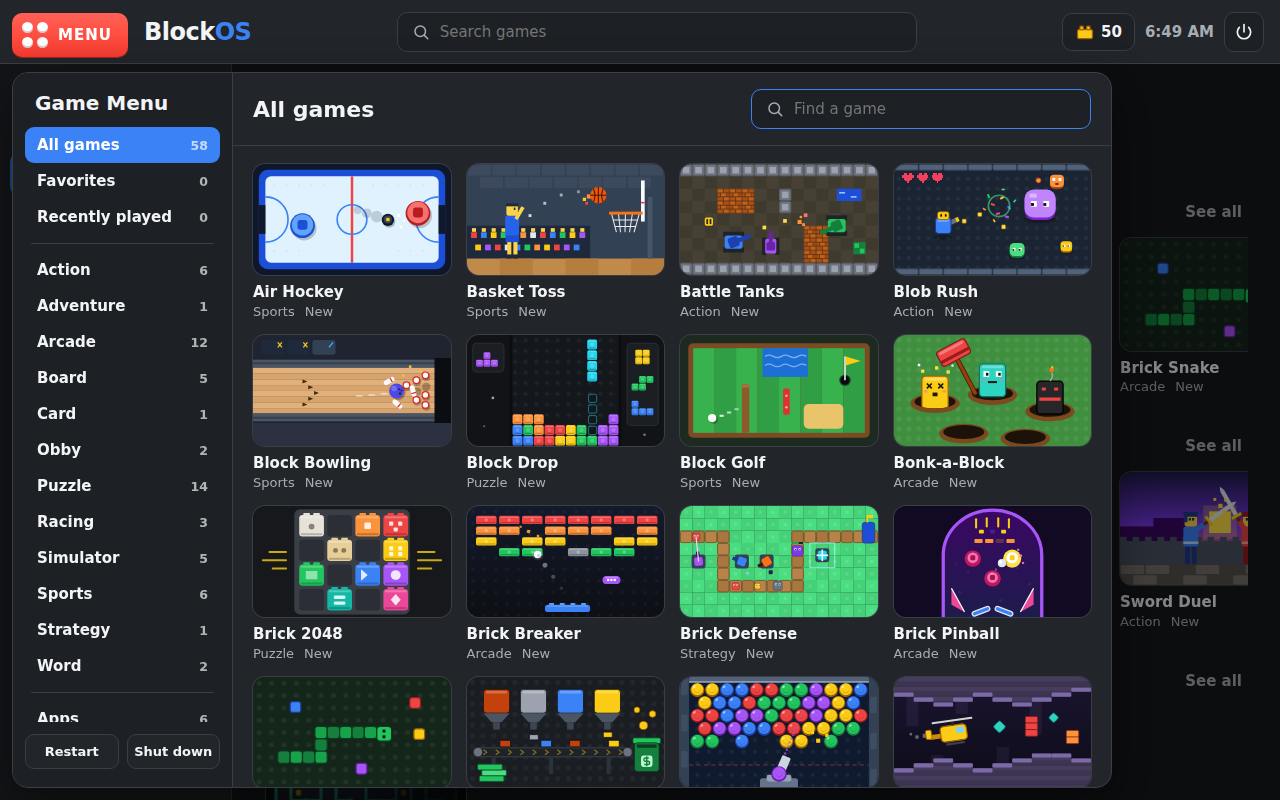
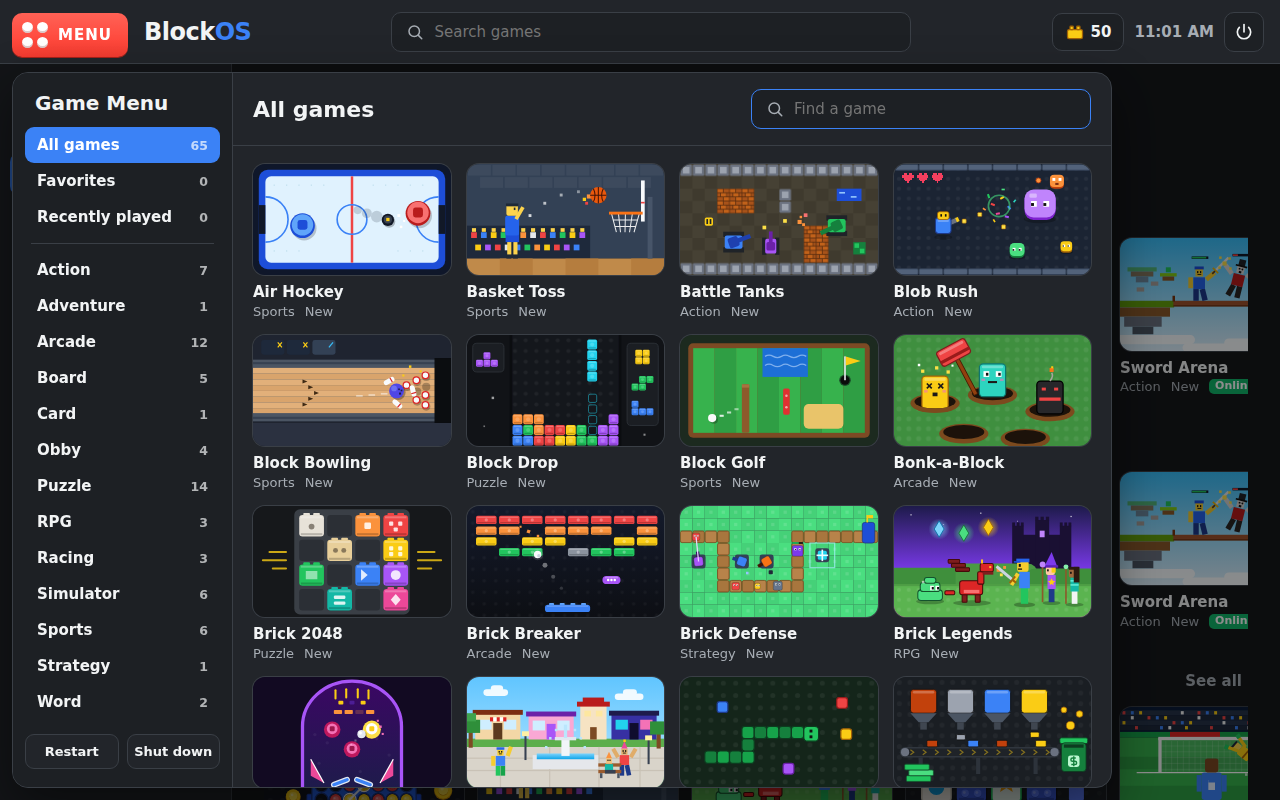
Add Mega Obby and Tower Rush; all 65 games done
Mega Obby is a 45-stage 3D obby on a sky spiral with saving, a secret
path and online racing. Tower Rush stacks 8 of 14 random sections into a
tower with a 6-minute round; online everyone climbs the same tower.

All 65 games load and respond to input without errors in a scripted check.
The README lists every game by genre, marks the 3D and online ones, and
shows two of the new 3D games.

Claude-Session: https://claude.ai/code/session_019XLtpXnqnpapxGsB4TwsEd

diff --git a/blockos/shell/games/tower-rush/index.html b/blockos/shell/games/tower-rush/index.html
@@ -43,16 +43,26 @@ const SPAWN = [0, 0, 40];
 
 const world = new World({ sky: "#93d2ff", fogNear: 220, fogFar: 650 });
 window.world = world;
-world.baseplate(320, "#4b9b3f");
+world.baseplate(200, "#4b9b3f");
+// cheap flat grass all around the baseplate (no overlap, so it costs almost nothing to draw)
+{
+  const mat = new THREE.MeshBasicMaterial({ color: "#4f9a44" });
+  for (const [x, z, w, d] of [[0, -350, 900, 500], [0, 350, 900, 500], [-350, 0, 500, 200], [350, 0, 500, 200]]) {
+    const g = new THREE.Mesh(new THREE.PlaneGeometry(w, d, 4, 4), mat);
+    g.rotation.x = -Math.PI / 2; g.position.set(x, -0.02, z); world.scene.add(g);
+  }
+}
 world.spawnPad(SPAWN);
-world.label("TOWER RUSH", { pos: [0, 12, 52], height: 4 });
+world.label("TOWER RUSH", { pos: [-20, 13, 30], height: 4 });
 // a little lobby: benches and a path to the tower
 world.part({ size: [6, 0.2, 24], pos: [0, 0.1, 22], color: "#d6d3d1", studs: false });
 for (const x of [-9, 9]) {
   world.part({ size: [5, 1, 1.6], pos: [x, 0.5, 44], color: "#a16207", material: "wood" });
-  world.part({ size: [1, 6, 1], pos: [x * 1.6, 3, 30], color: "#6b4f2a", material: "wood" });
-  world.part({ size: [4.5, 4, 4.5], pos: [x * 1.6, 7, 30], color: "#16a34a" });
+  world.part({ size: [1, 6, 1], pos: [x * 2.6, 3, 30], color: "#6b4f2a", material: "wood" });
+  world.part({ size: [4.5, 4, 4.5], pos: [x * 2.6, 7, 30], color: "#16a34a" });
 }
+
+for (const m of world.parts) slim(m);
 
 // ------------------------------------------------------------------ helpers
 function mulberry32(a) {
@@ -88,6 +98,22 @@ function L(s) {
 function alongX(s) { s = ((s % PER) + PER) % PER; return s < 9.5 || (s >= 28.5 && s < 47.5) || s >= 66.5; }
 function outward(s) { const [x, f] = L(s); return alongX(s) ? [0, Math.sign(f)] : [Math.sign(x), 0]; }
 function travel(s) { s = ((s % PER) + PER) % PER; return s < 9.5 ? [1, 0] : s < 28.5 ? [0, -1] : s < 47.5 ? [-1, 0] : s < 66.5 ? [0, 1] : [1, 0]; }
+
+// Fewer draw calls: the kit gives every box six material groups; regroup the faces so each part
+// draws as two batches (sides + studded top), or one when the top looks the same as the sides.
+// (Not used on parts whose material we swap later.)
+function slim(mesh) {
+  const g = mesh.geometry, mats = mesh.material;
+  if (!mesh.isMesh || !Array.isArray(mats) || !g.index || g.userData.slim) return;
+  g.userData.slim = true;
+  if (mats.every((m) => m === mats[0])) { g.clearGroups(); mesh.material = mats[0]; return; }
+  const idx = g.index.array, out = new idx.constructor(idx.length);
+  let o = 0;
+  for (const face of [0, 1, 3, 4, 5, 2]) for (let k = 0; k < 6; k++) out[o++] = idx[face * 6 + k];
+  g.setIndex(new THREE.BufferAttribute(out, 1));
+  g.clearGroups(); g.addGroup(0, 30, 0); g.addGroup(30, 6, 1);
+  mesh.material = [mats[0], mats[2]];
+}
 
 // ------------------------------------------------------------------ the tower's moving bits
 let towerParts = [];
@@ -182,7 +208,8 @@ const SECTIONS = {
   },
   sweepers(S) {
     const T = tiers(S, 4, S.c);
-    T.forEach((t, k) => spinArms(S, t.top + 1.5, 5, 11, (0.7 + S.d * 0.4) * (k % 2 ? -1 : 1), 2, k));
+    // (no arms on the lowest tier: they'd reach down to people climbing up from the section below)
+    T.forEach((t, k) => { if (k > 0) spinArms(S, t.top + 1.5, 5, 11, (0.7 + S.d * 0.4) * (k % 2 ? -1 : 1), 2, k); });
     return 17;
   },
   lava(S) {
@@ -203,7 +230,7 @@ const SECTIONS = {
   },
   ladder(S) {
     const n = 10, size = 2.2 - S.d * 0.4;
-    for (let k = 0; k < n; k++) blkAt(S, 3 + k * 4.8, 3 * (k + 1), size, k % 2 ? "#f8fafc" : S.c);
+    for (let k = 0; k < n; k++) blkAt(S, 12 + k * 4.8, 3 * (k + 1), size, k % 2 ? "#f8fafc" : S.c);
     return 3 * (n + 1);
   },
   pushers(S) {
@@ -225,25 +252,26 @@ const SECTIONS = {
     return 17;
   },
   bounce(S) {
-    const P = [[3, 1], [12.5, 11], [22, 21], [31.5, 31]];
-    P.forEach(([s, top], k) => {
-      const [x, f] = L(s);
-      S.F.blk(x, top, f, 5, 5, k === 3 ? "#e2e8f0" : S.c);
-      if (k < 3) launchPad(S.F, x, top, f, 3.6, 15);
-    });
+    for (let k = 0; k < 6; k++) {
+      const [x, f] = L(3 + k * 10.5), top = 1 + k * 6;
+      S.F.blk(x, top, f, 5, 5, k === 5 ? "#e2e8f0" : S.c);
+      if (k < 5) launchPad(S.F, x, top, f, 3.6, 12);
+    }
     return 34;
   },
   pillar(S) {
-    const H = 21, w = 2 - S.d * 0.4, e = 4.5 + w / 2, lo = -4.5 - w, hi = 4.5 + w;
+    const H = 25, w = 2 - S.d * 0.4, e = 4.5 + w / 2, lo = -4.5 - w, hi = 4.5 + w;
     // a pillar in the middle (thin enough that the ledges around it never bump your head)
     S.F.part({ at: [0, (12.5 + H - 1) / 2, 0], size: [7, H - 1 - 12.5, 7], color: "#475569" });
     // six ledges circling the pillar, each starting after the previous one's corner
+    // a first step out on the +x side (away from where the section below ends), then the ledges
+    S.F.blk(5.5, 3.5, 8.5, 3, 3, "#e2e8f0");
     const faces = [
-      [[lo, hi], e, true], [[3.5, lo], e, false], [[3.5, lo], -e, true],
-      [[-3.5, hi], -e, false], [[-3.5, hi], e, true], [[3.5, lo], e, false],
+      [[3.5, lo], e, false], [[3.5, lo], -e, true], [[-3.5, hi], -e, false],
+      [[-3.5, hi], e, true], [[3.5, lo], e, false], [[3.5, lo], -e, true],
     ];
     faces.forEach(([[a, b], c, alongXf], k) => {
-      const top = 3 + k * 3, len = Math.abs(b - a), mid = (a + b) / 2;
+      const top = 7 + k * 3, len = Math.abs(b - a), mid = (a + b) / 2;
       if (alongXf) S.F.blk(mid, top, c, len, w, k % 2 ? "#f8fafc" : S.c);
       else S.F.blk(c, top, mid, w, len, k % 2 ? "#f8fafc" : S.c);
     });
@@ -251,20 +279,25 @@ const SECTIONS = {
   },
   elevators(S) {
     const w = 0.9 + S.d * 0.4;
-    [[4, 1], [13, 9.5], [22, 18]].forEach(([s, b], k) => {
+    [[33, 1], [42, 9.5], [51, 18]].forEach(([s, b], k) => {
       const [x, f] = L(s);
       const m = S.F.part({ at: [x, b - 0.5, f], size: [5, 1, 5], color: S.c, moving: true });
       anims.push(() => S.F.place(m, x, b + 4.25 * (1 - Math.cos(rt * w + k * Math.PI)) - 0.5, f));
     });
-    blkAt(S, 31, 26.5, 5, "#e2e8f0");
+    blkAt(S, 60, 26.5, 5, "#e2e8f0");
     return 29.5;
   },
   killSteps(S) {
+    let side = 1, edge = -1;
     for (let k = 0; k < 9; k++) {
       const s = 5 + k * 7, top = 2.3 * (k + 1), [x, f] = L(s), [ox, of] = outward(s);
       S.F.blk(x, top, f, 6, 6, S.c);
-      const side = k % 2 ? -1 : 1;   // the outer half is red, then the inner half...
-      S.F.part({ at: [x + ox * side * 1.8, top + 0.15, f + of * side * 1.8], size: alongX(s) ? [6, 0.3, 2.4] : [2.4, 0.3, 6], color: "#ff2d2d", material: "neon", kill: true, studs: false });
+      // a red strip along the outer edge, then the inner edge... (always the outer edge right after
+      // a corner, so a strip never lies across your path)
+      const e = CORNERS.filter((c) => c <= s).length;
+      side = e !== edge || k === 8 ? 1 : -side;
+      edge = e;
+      S.F.part({ at: [x + ox * side * 2.1, top + 0.15, f + of * side * 2.1], size: alongX(s) ? [6, 0.3, 1.8] : [1.8, 0.3, 6], color: "#ff2d2d", material: "neon", kill: true, studs: false });
     }
     return 2.3 * 10;
   },
@@ -358,12 +391,9 @@ function buildTower(seed, forceKeys) {
     // (sections are never mirrored: each one ends on the far side of the loop from where the next one starts)
     const S = { F: new Frame(new THREE.Vector3(0, y, 0), 1), d: k / (SECTION_COUNT - 1), c, rng, tip: "" };
     const H = SECTIONS[key](S);
-    // corner posts and a ring at the top of the section, so you can see the floors
-    for (const [cx, cz] of [[-14.5, -14.5], [14.5, -14.5], [-14.5, 14.5], [14.5, 14.5]]) {
-      track(world.part({ size: [1, H, 1], pos: [cx, y + H / 2, cz], color: c, collide: false, studs: false }));
-    }
-    for (const [cx, cz, sx, sz] of [[0, -14.5, 30, 0.6], [0, 14.5, 30, 0.6], [-14.5, 0, 0.6, 30], [14.5, 0, 0.6, 30]]) {
-      track(world.part({ size: [sx, 0.6, sz], pos: [cx, y + H, cz], color: c, material: "neon", collide: false, studs: false, shadow: false }));
+    // a colored ring at the top of the section, so you can see the floors
+    for (const [cx, cz, sx, sz] of [[0, -14.5, 30, 0.35], [0, 14.5, 30, 0.35], [-14.5, 0, 0.35, 30], [14.5, 0, 0.35, 30]]) {
+      track(world.part({ size: [sx, 0.35, sz], pos: [cx, y + H, cz], color: c, material: "neon", collide: false, studs: false, shadow: false }));
     }
     const lab = world.label(String(k + 1), { pos: [14.5, y + 3, 14.5], height: 2.6 });
     track(lab);
@@ -371,6 +401,10 @@ function buildTower(seed, forceKeys) {
     y += H;
     if (k < SECTION_COUNT - 1) pad(y, c);
   });
+  // four tall corner posts frame the whole tower
+  for (const [cx, cz] of [[-14.5, -14.5], [14.5, -14.5], [-14.5, 14.5], [14.5, 14.5]]) {
+    track(world.part({ size: [1, y, 1], pos: [cx, y / 2, cz], color: "#e2e8f0", collide: false, studs: false }));
+  }
   // the top
   track(world.part({ size: [8, 1, 8], pos: [0, y - 0.5, 0], color: "#ca8a04" }));
   const fin = track(world.part({ size: [6, 0.3, 6], pos: [0, y + 0.15, 0], color: "#fde047", material: "neon", collide: false, studs: false, onTouch: () => reachTop() }));
@@ -378,6 +412,8 @@ function buildTower(seed, forceKeys) {
   track(world.part({ size: [3, 2.4, 3], pos: [0, y + 11.2, 0], color: "#facc15", material: "neon", collide: false, studs: false }));
   const topLab = world.label("TOP", { pos: [0, y + 15, 0], height: 3.4, color: "#fde047" });
   track(topLab);
+  const keep = new Set([...fallers.map((q) => q.m), ...blinkers.map((q) => q.m)]);
+  for (const m of towerParts) if (!keep.has(m)) slim(m);
   tower = { seed, sections, top: y, fin };
   return tower;
 }
@@ -431,7 +467,7 @@ function startRound(seed, timeLeft, forceKeys) {
   rt = ROUND - left;
   best = 0; won = false; scored = false;
   world.checkpoint(SPAWN);
-  if (me.alive) { me.pos.set(...SPAWN); me.vel.set(0, 0, 0); me.yaw = world.cam.yaw = 0; }
+  if (me.alive) { me.pos.set(...SPAWN); me.vel.set(0, 0, 0); me.yaw = world.cam.yaw = 0; world.cam.pitch = 0.02; world.cam.dist = 18; }
   fallTop = me.pos.y;
   if (playing) banner("New tower!", `${SECTION_COUNT} sections - reach the top in ${fmt(left)}`, 3);
 }
@@ -459,7 +495,7 @@ function reachTop() {
   if (!playing || phase !== "play" || won) return;
   won = true;
   wins++;
-  wonAt = ROUND - left;
+  wonAt = Math.max(0, ROUND - left);
   best = heightOf(tower.top);
   try { localStorage.setItem("blockos.towerrush.wins", String(wins)); } catch (_) {}
   Kit.sfx("win");

diff --git a/blockos/shell/games/catalog.js b/blockos/shell/games/catalog.js
@@ -33,6 +33,7 @@ window.BLOCKOS_GAMES = [
   {"id": "lights-out", "title": "Lights Out", "genre": "Puzzle", "color": "#facc15", "description": "Every press flips a brick and its four neighbors - switch off all the lights within the move limit as the boards grow from 3x3 to 7x7.", "controls": "Click a brick / Arrows + Space, H for a hint", "scoreLabel": "Best run score", "lowerIsBetter": false},
   {"id": "math-blitz", "title": "Math Blitz", "genre": "Puzzle", "color": "#a855f7", "description": "Answer as many arithmetic problems as you can in 60 seconds while the questions get tougher. Chain correct answers for a combo of up to x5.", "controls": "Type the answer with number keys, or pick a brick with A S D F / mouse", "scoreLabel": "High score", "lowerIsBetter": false},
   {"id": "maze-escape", "title": "Maze Escape", "genre": "Adventure", "color": "#34d399", "description": "Race the clock through ten freshly generated mazes that grow bigger every level. Grab keys to unlock the exit, scoop up coins and find your way through the dark.", "controls": "Arrows / WASD to walk (hold to keep going), click a square to walk there, P to pause", "scoreLabel": "High score", "lowerIsBetter": false},
+  {"id": "mega-obby", "title": "Mega Obby", "genre": "Obby", "color": "#22c55e", "description": "Climb a giant 45-stage obstacle course spiraling through the sky: spinners, lasers, conveyors, glass bridges, low gravity and more. Checkpoints save your progress, and online you race other players stage by stage.", "controls": "WASD / arrows to move, Space to jump, drag or Left/Right to turn the camera, Shift for shift lock, R to reset", "scoreLabel": "Stages cleared", "lowerIsBetter": false, "is3d": true, "multiplayer": true},
   {"id": "memory-bricks", "title": "Memory Bricks", "genre": "Puzzle", "color": "#3b5bdb", "description": "Flip studded bricks two at a time to find matching pictures. Pick from four board sizes and clear it in as few moves and seconds as you can.", "controls": "Click to flip; or arrows to move and Space to flip; R new board", "scoreLabel": "High score", "lowerIsBetter": false},
   {"id": "mine-sweep", "title": "Mine Sweep", "genre": "Puzzle", "color": "#617390", "description": "Open every brick that is not hiding a mine, using the numbers as clues. Three board sizes, a safe first click and flags to mark danger.", "controls": "Left click open, right click flag, click a number to chord; arrows + Space / F also work", "scoreLabel": "Best time (s)", "lowerIsBetter": true},
   {"id": "mining-sim", "title": "Mining Sim", "genre": "Simulator", "color": "#f59e0b", "description": "Dig deep for coal, gold, diamonds and rarer ores, sell your haul at the surface and buy better pickaxes and bigger backpacks. Progress saves automatically.", "controls": "Arrows / WASD or hold the mouse to move and dig, R to surface, E for the shop", "scoreLabel": "Total earned", "lowerIsBetter": false},
@@ -58,6 +59,7 @@ window.BLOCKOS_GAMES = [
   {"id": "lava-floor", "title": "The Floor Is Lava", "genre": "Action", "color": "#ff5a1f", "description": "Floor bricks crack, glow and melt into lava in wilder and wilder waves. Keep running, hop over the hot spots and grab coins to survive as long as you can.", "controls": "Arrows / WASD or hold the mouse to run, Space or right click to hop", "scoreLabel": "High score", "lowerIsBetter": false},
   {"id": "tic-tac-block", "title": "Tic Tac Block", "genre": "Board", "color": "#ef4444", "description": "The classic three-in-a-row duel, built from bricks. Take on an easy CPU or an unbeatable one, or play a friend with a running scoreboard.", "controls": "Click a square, or arrows / WASD then Space, or keys 1-9; M to change mode", "scoreLabel": "Best unbeaten streak", "lowerIsBetter": false},
   {"id": "tower-climb", "title": "Tower Climb", "genre": "Obby", "color": "#14b8a6", "description": "Climb an endless tower of randomly stacked obby stages: kill bricks, conveyors, crumbling blocks, lasers and trusses, with a checkpoint at every stage.", "controls": "Left / Right or A / D to run, Space / Up / W to jump, Up / Down to climb trusses", "scoreLabel": "Best height", "lowerIsBetter": false},
+  {"id": "tower-rush", "title": "Tower Rush", "genre": "Obby", "color": "#a855f7", "description": "Race to the top of a brand-new tower every round, stacked from random sections: sweeping kill bars, rising lava, pushers, lasers, blinking steps and more. No checkpoints, one shared timer, and online everyone climbs the same tower.", "controls": "WASD / arrows to move, Space to jump, drag or Left/Right to turn the camera, Shift for shift lock, R to reset", "scoreLabel": "Best climb (studs)", "lowerIsBetter": false, "is3d": true, "multiplayer": true},
   {"id": "tower-stack", "title": "Tower Stack", "genre": "Arcade", "color": "#a855f7", "description": "Drop sliding bricks to build the tallest tower you can. Overhangs get sliced off, but perfect drops earn bonus points and grow your block back.", "controls": "Space, Down or click to drop", "scoreLabel": "High score", "lowerIsBetter": false},
   {"id": "turbo-lanes", "title": "Turbo Lanes", "genre": "Racing", "color": "#ef4444", "description": "Weave a blocky race car through endless highway traffic as the speed keeps climbing. Grab coins to charge your boost and smash straight through anything in your way.", "controls": "Left / Right or mouse to steer, Up / Space or hold mouse to boost, Down to brake", "scoreLabel": "High score", "lowerIsBetter": false},
   {"id": "typing-racer", "title": "Typing Racer", "genre": "Racing", "color": "#22c55e", "description": "Every correct keystroke pushes your blocky car down the track. Type the sentences fast and clean to beat three CPU racers to the flag.", "controls": "Type the highlighted text (letters, spaces and punctuation)", "scoreLabel": "Best WPM", "lowerIsBetter": false},

diff --git a/blockos/shell/games/mega-obby/index.html b/blockos/shell/games/mega-obby/index.html
@@ -61,6 +61,22 @@ class Frame {
   spinFwd(m, a) { if (this.h % 2) m.rotation.set(a * (this.h === 1 ? 1 : -1), 0, 0); else m.rotation.set(0, 0, a * (this.h === 0 ? -1 : 1)); m.updateMatrixWorld(); }
 }
 
+// Fewer draw calls: the kit gives every box six material groups; regroup the faces so each part
+// draws as two batches (sides + studded top), or one when the top looks the same as the sides.
+// (Not used on parts whose material we swap later.)
+function slim(mesh) {
+  const g = mesh.geometry, mats = mesh.material;
+  if (!mesh.isMesh || !Array.isArray(mats) || !g.index || g.userData.slim) return;
+  g.userData.slim = true;
+  if (mats.every((m) => m === mats[0])) { g.clearGroups(); mesh.material = mats[0]; return; }
+  const idx = g.index.array, out = new idx.constructor(idx.length);
+  let o = 0;
+  for (const face of [0, 1, 3, 4, 5, 2]) for (let k = 0; k < 6; k++) out[o++] = idx[face * 6 + k];
+  g.setIndex(new THREE.BufferAttribute(out, 1));
+  g.clearGroups(); g.addGroup(0, 30, 0); g.addGroup(30, 6, 1);
+  mesh.material = [mats[0], mats[2]];
+}
+
 // ------------------------------------------------------------------ shared systems
 const anims = [];          // fn(t, dt)
 const hazards = [];        // { mesh, on: () => bool }  kill when touched while on
@@ -537,6 +553,11 @@ function buildSecret(F) {
     else Kit.sfx("coin");
     banner("Secret found!", "There's always something off the path");
   } });
+}
+
+{
+  const keep = new Set([...fallers.map((q) => q.m), ...pads.map((p) => p.glow)]);
+  for (const m of world.parts) if (!keep.has(m)) slim(m);
 }
 
 // a sea of clouds far below, so you can feel the height

diff --git a/blockos/README.md b/blockos/README.md
@@ -12,13 +12,15 @@ into categories, plus favorites, recently played, apps, and the power buttons.
 
 ![BlockOS home screen](docs/home.png)
 ![The Game Menu](docs/menu.png)
+![Dungeon Quest, a 3D RPG](docs/dungeon-quest.png)
+![Survival Island, a 3D survival game](docs/survival-island.png)
 
 ## What's inside
 
 | Part | Where | What it does |
 | --- | --- | --- |
 | Desktop shell | `shell/` | The BlockOS desktop: Home, Discover, Avatar (with a shop), Apps, Settings, the Game Menu and the in-game menu. Plain HTML/CSS/JS, works offline. |
-| Games | `shell/games/` | 58 original games (list below). Each one is a folder with `index.html` and `thumb.svg`. |
+| Games | `shell/games/` | 65 original games (list below). Each one is a folder with `index.html` and `thumb.svg`. |
 | 3D kit | `shell/games/kit3d.js` | Roblox-style 3D worlds (bundled three.js): studded parts, your avatar as a 3D character, camera, physics, other online players. |
 | Game server | `multiplayer/relay.js` | Lets players play together online (Node.js). Hosted from the Play Online page, or on the internet. |
 | Shell server | `shell/server.py` | Serves the desktop on `127.0.0.1:8737` and lets it open real Linux apps (Terminal, Files, Web Browser, Text Editor, Task Manager, Calculator) and shut down or restart. Only allowlisted commands can run. |
@@ -126,19 +128,20 @@ play as your own avatar.
 
 ## Games
 
-58 original games, sorted by genre in the Game Menu.
+65 original games, sorted by genre in the Game Menu. Every game awards badges.
 
 | Genre | Games |
 | --- | --- |
-| **Action** | Battle Tanks, Blob Rush, Disaster Island, Getaway, Sword Duel, The Floor Is Lava |
+| **Action** | Battle Tanks, Blob Rush, Disaster Island, Getaway, Sword Arena (3D, online), Sword Duel, The Floor Is Lava |
 | **Adventure** | Maze Escape |
 | **Arcade** | Bonk-a-Block, Brick Breaker, Brick Pinball, Brick Snake, Cave Copter, Flap Block, Ninja Run, Rhythm Tap, Road Hopper, Sky Jumper, Space Blaster, Tower Stack |
 | **Board** | Checkers, Dots and Boxes, Four in a Row, Reversi, Tic Tac Block |
 | **Card** | Solitaire |
-| **Obby** | Obby Run, Tower Climb |
+| **Obby** | Mega Obby (3D, online), Obby Run, Tower Climb, Tower Rush (3D, online) |
 | **Puzzle** | Block Drop, Brick 2048, Bubble Pop, Color Echo, Color Sort, Gem Bricks, Lights Out, Math Blitz, Memory Bricks, Mine Sweep, Pipe Connect, Pixel Logic, Slide Puzzle, Sudoku Blocks |
+| **RPG** | Brick Legends, Dungeon Quest (3D, online), Survival Island (3D, online) |
 | **Racing** | Kart Dash, Turbo Lanes, Typing Racer |
-| **Simulator** | Brick Tycoon, Fishing Frenzy, Mining Sim, Pet Hatchery, Pizza Shop |
+| **Simulator** | Brick Plaza (3D, online), Brick Tycoon, Fishing Frenzy, Mining Sim, Pet Hatchery, Pizza Shop |
 | **Sports** | Air Hockey, Basket Toss, Block Bowling, Block Golf, Paddle Clash, Penalty Kick |
 | **Strategy** | Brick Defense |
 | **Word** | Word Bricks, Word Search |
@@ -149,7 +152,8 @@ play as your own avatar.
    as a starting point. It uses the shared helpers in `shell/games/kit.js` (canvas setup, keyboard,
    game loop, start/game-over screens, sounds, best scores), which are documented at the top of that file.
 2. Add a `thumb.svg` (480 x 270) for the game card.
-3. Add a `meta.json` (copy brick-snake's) and run `python3 blockos/tools/gen-catalog.py` to rebuild `shell/games/catalog.js`.
+3. Add a `meta.json` (copy brick-snake's; add `"is3d": true` / `"multiplayer": true` if they apply) and run `python3 blockos/tools/gen-catalog.py` to rebuild `shell/games/catalog.js`.
+   For a 3D game, start from `shell/games/_example3d/` and the API notes at the top of `shell/games/kit3d.js`.
 4. Call `Kit.finish("my-game", score)` when a round ends so the player earns Bricks.
 
 On an installed system, copy the changed `shell/` folder to `/opt/blockos/shell`, or simply run
